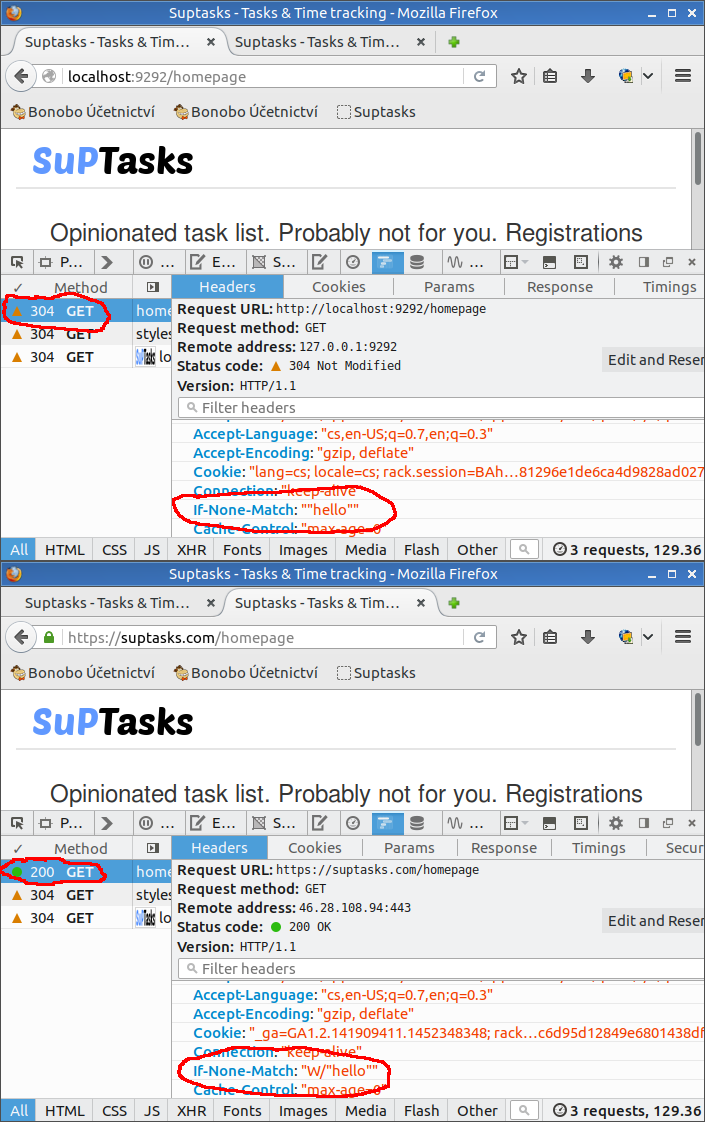
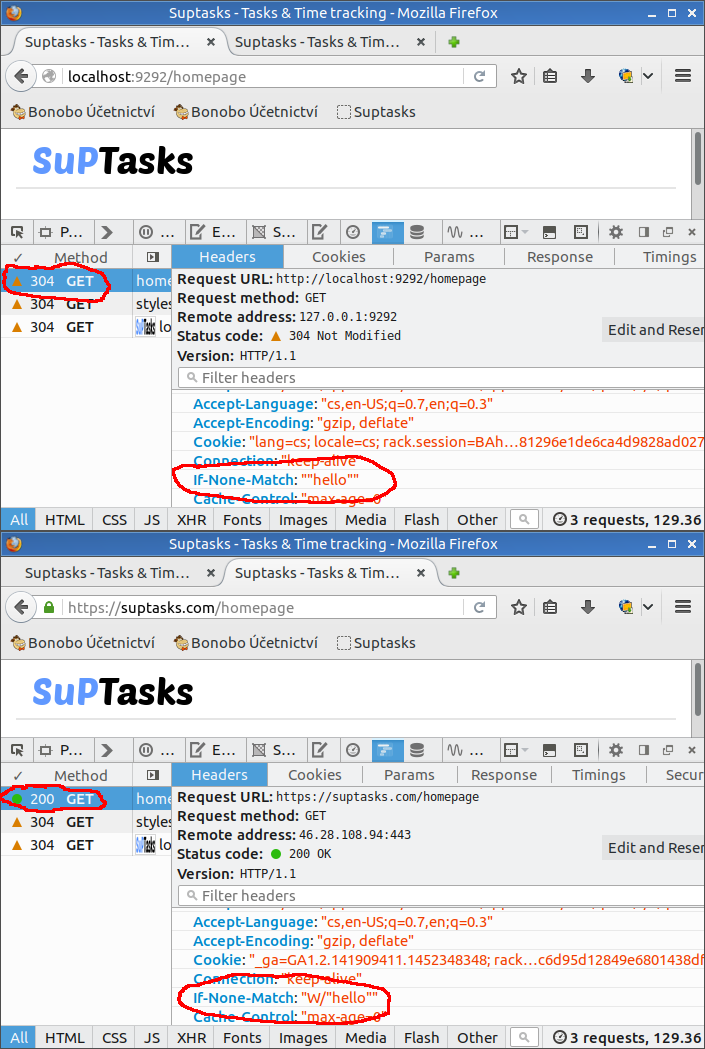
post ebout etag changes

diff --git a/2016/01/06/roda-etag-caching-gotcha.html b/2016/01/06/roda-etag-caching-gotcha.html
@@ -58,11 +58,9 @@
   <li><a href="http://nginx.org/en/CHANGES">Nginx changelog</a> - look for verison 1.7.3</li>
 </ul>
 
-<p>TLDR: esponse is gzipped it doesn’t have to be byte-to-byte comparable after restore. And that’s what strong ETag suggests. Weak ETag on other hand suggests that response might not be byte-to-byte comparable but the semantics are same. And Nginx does it’s best to support caching by modifiing the strong ETag to be a weak one.</p>
-
 <p>TLDR: Response before gzip and response after restore from gzip doesn’t have to be byte-to-byte comparable. And that’s what strong ETag suggests. Weak ETag on other hand suggests that response might not be byte-to-byte comparable but the semantics are same.</p>
 
-<p>So Nginx does it’s best to support caching by modifiing the strong ETag to weak one.</p>
+<p>Nginx does it’s best to support caching by modifiing the strong ETag to weak one.</p>
 
 <p>The problem is that Roda waits for “hello” ETag. But after Nginx’s gzip it’s “W/hello”. So when compared, ETags aren’t same and 200 response with full content is returned.</p>
 
